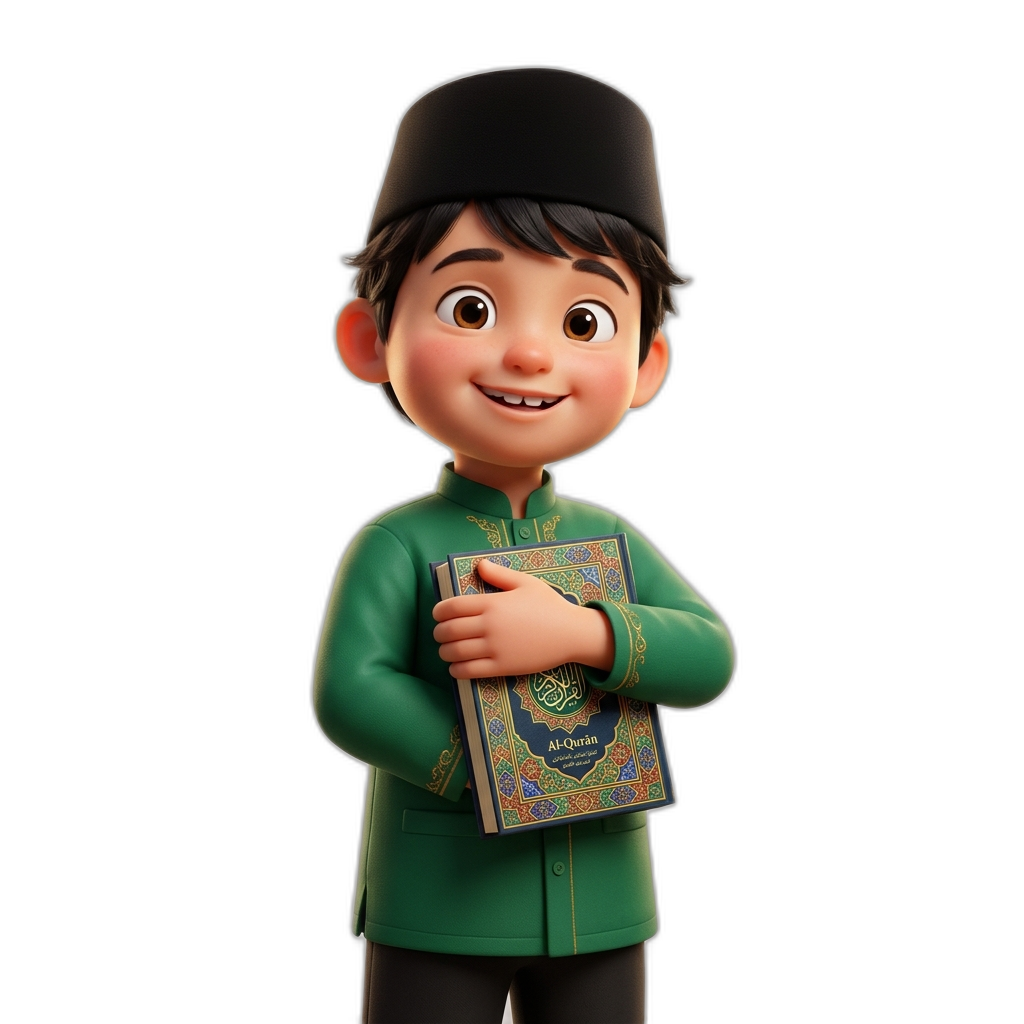
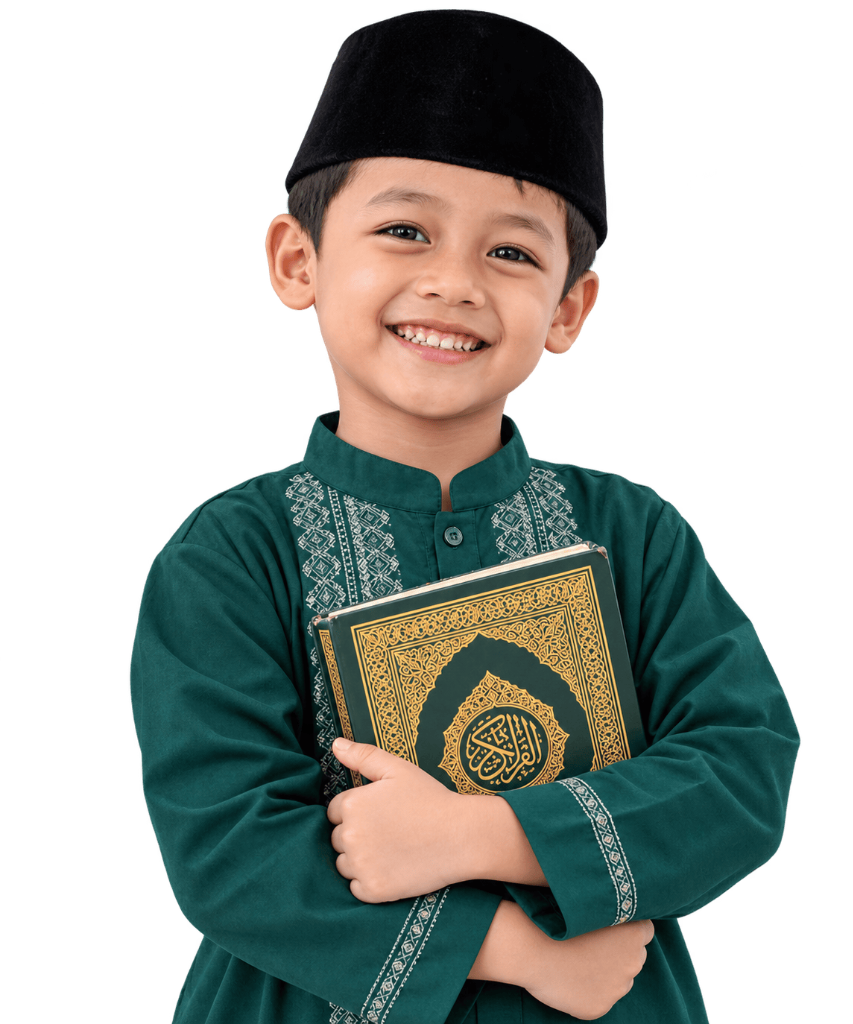
feat(tpa): perbarui visual Murid Aisyah MJS dan Murid Faiz Hafidz Cilik dengan Al-Qur'an resmi

diff --git a/src/app/components/tpa/TpaVisualAssets.tsx b/src/app/components/tpa/TpaVisualAssets.tsx
@@ -255,7 +255,7 @@ export const JumboBoyCharacter: React.FC<{
               <span className="w-2 h-2 rounded-full bg-emerald-500 animate-ping inline-block" />
               Murid Cilik MJS
             </span>
-            <span className="text-amber-500 text-xs font-semibold">✨ Film Jumbo</span>
+            <span className="text-amber-500 text-xs font-semibold">✨ Hafidz Cilik MJS</span>
           </div>
           <p className="font-sans text-slate-700">{speech}</p>
           {/* Bubble tail */}
@@ -270,8 +270,8 @@ export const JumboBoyCharacter: React.FC<{
 
         {/* Gambar Cutout Transparan PNG Tanpa Frame Kotak */}
         <img
-          src="/media/tpa/jumbo_santri_boy.png"
-          alt="Murid Cilik MJS Faiz - Animasi Film Jumbo"
+          src="/media/tpa/murid_faiz_mjs.png"
+          alt="Murid Cilik MJS Faiz - Hafidz Cilik"
           className="w-full h-full object-contain filter drop-shadow-[0_16px_28px_rgba(0,0,0,0.22)] transform group-hover:scale-105 transition-transform duration-300 select-none pointer-events-auto"
         />
 
@@ -290,7 +290,7 @@ export const JumboGirlCharacter: React.FC<{
   size?: "sm" | "md" | "lg";
   className?: string;
 }> = ({
-  speech = "Bismillah! Di TPA MJS, belajar ngaji itu asyik dan punya banyak teman sholeh!",
+  speech = "Bismillah! Di TPA MJS, belajar ngaji itu asyik, tartil, dan punya banyak teman sholeh!",
   size = "md",
   className = "",
 }) => {
@@ -304,16 +304,16 @@ export const JumboGirlCharacter: React.FC<{
     <div className={`relative flex flex-col items-center group pointer-events-auto ${className}`}>
       {/* Speech Bubble */}
       {speech && (
-        <div className="mb-2 max-w-[260px] sm:max-w-[320px] bg-white rounded-2xl p-3 sm:p-4 shadow-xl border border-amber-300 text-slate-800 text-xs sm:text-sm font-medium leading-relaxed relative animate-jumbo-bounce select-none">
+        <div className="mb-2 max-w-[260px] sm:max-w-[320px] bg-white rounded-2xl p-3 sm:p-4 shadow-xl border border-emerald-300 text-slate-800 text-xs sm:text-sm font-medium leading-relaxed relative animate-jumbo-bounce select-none">
           <div className="flex items-center gap-2 mb-1">
-            <span className="text-[#C89B3C] font-bold text-xs uppercase tracking-wider flex items-center gap-1">
-              <span className="w-2 h-2 rounded-full bg-amber-500 animate-pulse inline-block" />
+            <span className="text-[#0F766E] font-bold text-xs uppercase tracking-wider flex items-center gap-1">
+              <span className="w-2 h-2 rounded-full bg-emerald-500 animate-pulse inline-block" />
               Murid Cilik MJS
             </span>
-            <span className="text-teal-600 text-xs font-semibold">💻 Qur'anic Tech</span>
+            <span className="text-[#C89B3C] text-xs font-semibold">📖 Generasi Qur'ani</span>
           </div>
           <p className="font-sans text-slate-700">{speech}</p>
-          <div className="absolute -bottom-2 left-1/2 -translate-x-1/2 w-4 h-4 bg-white border-b border-r border-amber-300 transform rotate-45" />
+          <div className="absolute -bottom-2 left-1/2 -translate-x-1/2 w-4 h-4 bg-white border-b border-r border-emerald-300 transform rotate-45" />
         </div>
       )}
 
@@ -324,14 +324,14 @@ export const JumboGirlCharacter: React.FC<{
 
         {/* Gambar Cutout Transparan PNG Tanpa Frame Kotak */}
         <img
-          src="/media/tpa/jumbo_santri_girl.png"
-          alt="Murid Cilik MJS Aisyah - Animasi Film Jumbo"
+          src="/media/tpa/murid_aisyah_mjs.png"
+          alt="Murid Cilik MJS Aisyah"
           className="w-full h-full object-contain filter drop-shadow-[0_16px_28px_rgba(0,0,0,0.22)] transform group-hover:scale-105 transition-transform duration-300 select-none pointer-events-auto"
         />
 
         {/* Lencana Nama Melayang Bebas di Bawah */}
         <div className="absolute -bottom-2 left-1/2 -translate-x-1/2 bg-[#0F766E] text-teal-100 text-[10px] sm:text-xs font-bold px-3 py-1 rounded-full shadow-lg border border-teal-300 whitespace-nowrap">
-          Murid Aisyah • Pintar IT
+          Murid Aisyah • MJS
         </div>
       </div>
     </div>
